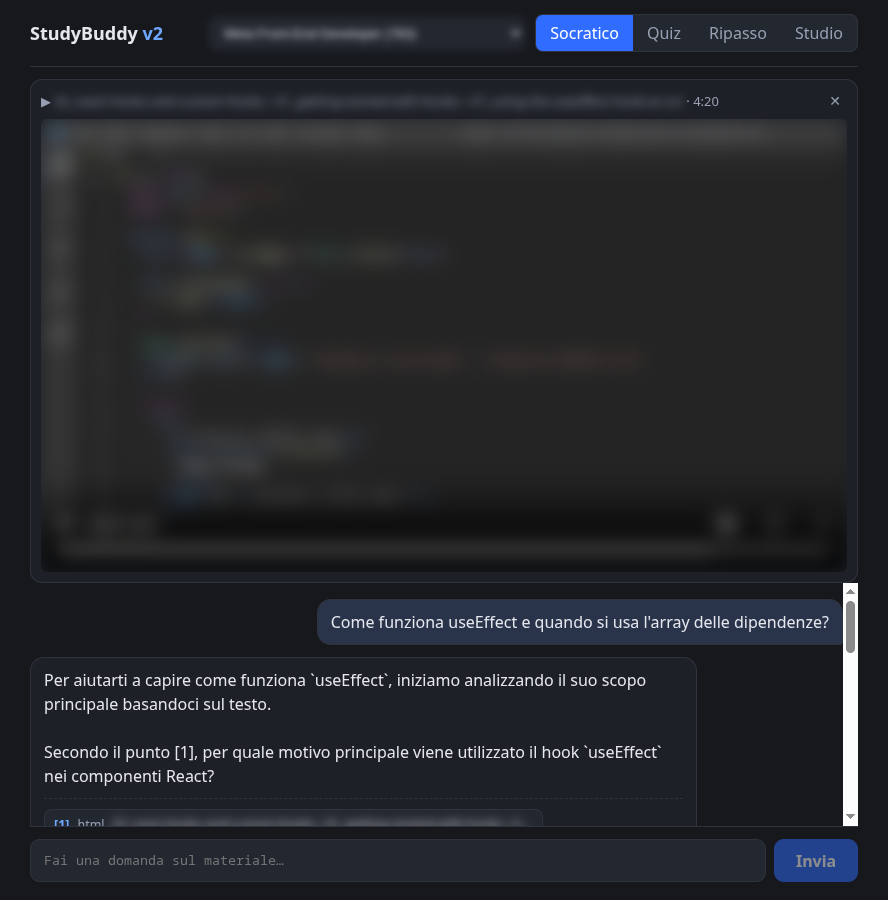
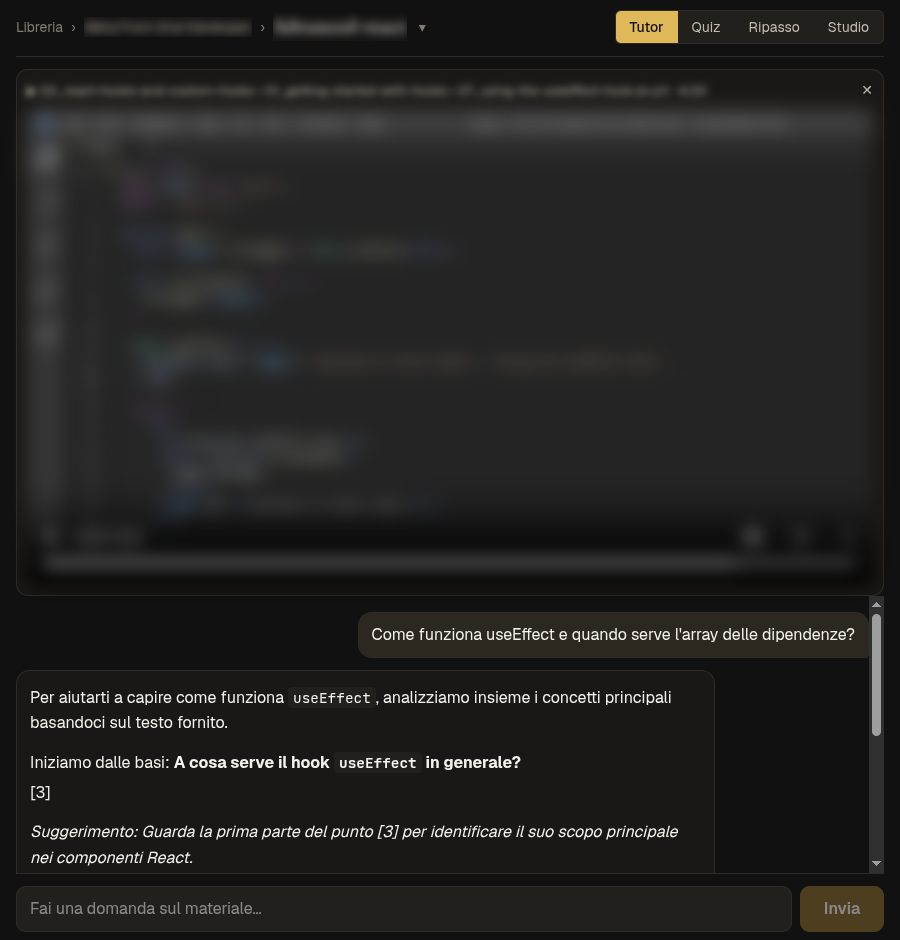
README e screenshot aggiornati: libreria, import con anteprima, nuova UI dell'area studio

diff --git a/README.md b/README.md
@@ -1,6 +1,6 @@
 # StudyBuddy v2
 
-**A local-first AI study companion.** Point it at a downloaded online course (video transcripts, PDFs, HTML readings) and it becomes a personal tutor. It answers Socratically and cites the exact minute of the lecture video. It also generates quizzes and spaced-repetition flashcards, map-reduce summaries, slides, and explorable concept maps. Everything runs on your machine through Ollama, so no data leaves it and there is no per-token bill.
+**A local-first AI study companion.** Drop downloaded online courses (video transcripts, PDFs, HTML readings) into a folder, import them from the app, and each one becomes a personal tutor. It answers Socratically and cites the exact minute of the lecture video. It also generates quizzes and spaced-repetition flashcards, map-reduce summaries, slides, and explorable concept maps. Everything runs on your machine through Ollama, so no data leaves it and there is no per-token bill.
 
 ![Socratic tutor: a citation opens the lecture video at the right minute](docs/screenshots/socratic-tutor.png)
 
@@ -8,8 +8,15 @@
 
 ## Features
 
+### Course library and guided import
+Copy downloaded courses into `Courses/` and the library notices them. **Add course** analyses the folder without touching the database. It tells a specialization (named sub-folders, one course each) from a single course (numbered module folders), counts transcripts, PDFs, HTML and videos, flags videos without subtitles, and compares file hashes with the last import to mark each course *new*, *up to date* or *changed*. You review an editable preview before anything is written: rename, flip course ↔ specialization, group loose courses into a new one, assign **areas**, and pick what to import. Import runs in the background with per-course progress.
+
+The hierarchy is two levels deep: studying a specialization covers all its courses (retrieval, review queue, maps). Areas are layout-only tags that group the library at a glance without mixing content. Re-importing never undoes manual organization.
+
+<img src="docs/screenshots/library.png" alt="Library grouped by area, with specializations and their courses" width="49%"> <img src="docs/screenshots/add-preview.png" alt="Import preview: detected courses, file counts, changed files, grouping and areas" width="49%">
+
 ### Socratic tutor with video-timestamp citations
-Ask a question, even in Italian about English material. The tutor doesn't hand you the answer. It guides you with questions and hints, and it relies **only** on passages retrieved from the course. Every answer lists numbered sources. A transcript citation opens the built-in player at the exact timestamp. Conversations are saved and resumed.
+Ask a question, even in Italian about English material, about one course or a whole specialization. The tutor doesn't hand you the answer. It guides you with questions and hints, and it relies **only** on passages retrieved from the course. Every answer lists numbered sources. A transcript citation opens the built-in player at the exact timestamp. Conversations are saved and resumed.
 
 <img src="docs/screenshots/citations.png" alt="Socratic dialogue with numbered citations and video timestamps" width="640">
 
@@ -57,7 +64,7 @@ Map-reduce summaries over a topic or a whole module. The slides come with SVG il
 - **Hybrid retrieval.** Dense search alone misses exact terms (`useEffect`, `git rebase`). Lexical search alone can't match an Italian question to English material. StudyBuddy runs both: multilingual `qwen3-embedding` on **sqlite-vec** and **BM25** on FTS5. It fuses them with **Reciprocal Rank Fusion**, which merges by rank, so incomparable cosine and BM25 scores never need normalizing.
 - **Real reranker.** `bge-reranker-v2-m3` runs in-process via Transformers.js / ONNX Runtime on CUDA (fp16, ~0.6 s for 20 passages). If CUDA isn't available it falls back to CPU (q8, ~3.4 s); if the model fails to load, it falls back to LLM listwise reranking.
 - **Provider-agnostic.** Every LLM call goes through `generate(task, opts)` / `embed(texts)`. `src/lib/config.ts` maps each task (chat, quiz, grade, summarize, embed, rerank) to a provider and model. Ollama is the default; Anthropic or any OpenAI-compatible endpoint is opt-in **per task**.
-- **Safe for a local app that touches the filesystem.** `src/proxy.ts` only accepts local `Host` headers, which blocks DNS rebinding, and only `application/json` writes, which forces a CORS preflight against CSRF. Client paths go through a home-directory sandbox, and the video endpoint only streams files that were actually ingested.
+- **Safe for a local app that touches the filesystem.** `src/proxy.ts` only accepts local `Host` headers, which blocks DNS rebinding, and only `application/json` writes, which forces a CORS preflight against CSRF. Client paths go through a home-directory sandbox that is checked on the *real* path, so a symlink pointing outside it is skipped and reported. The video endpoint only streams files that were actually ingested.
 
 ## Stack
 
@@ -80,12 +87,12 @@ ollama pull gemma4:12b
 ollama pull qwen3-embedding:0.6b
 
 npm install
-echo "DB_PATH=studybuddy.db" > .env.local   # optional, this is the default
-npm run db:push
-npm run dev                                  # http://localhost:3000
+echo "DB_PATH=studybuddy.db" > .env.local
+DB_PATH=studybuddy.db npx tsx scripts/create-db.ts   # new database with the schema
+npm run dev                                          # http://localhost:3000
 ```
 
-The reranker model downloads into `.models/` on first use.
+The reranker model downloads into `.models/` on first use. The vector and full-text tables (`sqlite-vec`, FTS5) are created by the app, so don't run `drizzle-kit push` on a database that already has data: they aren't part of the Drizzle schema.
 
 **Optional GPU reranking.** `onnxruntime-node` is built against CUDA 12. If your system has a different CUDA version, install the CUDA 12 runtime libraries into a project venv. `npm run dev` adds them to `LD_LIBRARY_PATH` through `scripts/with-cuda.sh`:
 
@@ -96,22 +103,31 @@ python -m venv .venv
 
 **Optional Whisper fallback** for videos without subtitles: `.venv/bin/pip install faster-whisper` (whisper.cpp and openai-whisper are auto-detected too).
 
-## Ingesting a course
+## Adding courses
 
-The expected layout is `course/module/lesson/` with mixed files. Subtitles are the primary source; videos are skipped, but their paths are kept so citations can link to them.
+1. Copy each downloaded course (or a whole specialization) into `Courses/` in the project root. Set `STUDYBUDDY_LIBRARY_DIR` to use another folder inside your home.
+2. Open the app: the library shows a banner with the new folders. Click **Add course**, check the preview, import.
+3. **Check for updates** on the same page re-hashes the files and re-imports only what changed.
+
+The expected layout is `course/module/lesson/` with mixed files. Subtitles are the primary source (`lesson.en.srt` covers `lesson.mp4`). Videos are skipped, but their paths are kept so citations can link to them. Videos without subtitles can be transcribed with Whisper from the preview (slow: minutes per hour of video).
+
+Re-importing is idempotent: unchanged files are skipped by hash, modified files are replaced, and names, specializations and areas you changed by hand are kept.
+
+There is also a CLI, which follows the same rules:
 
 ```bash
 npm run ingest -- "path/to/course" "Course name"
 npm run ingest -- "path/to/course" "Course name" --whisper   # also transcribe videos without subtitles
 ```
 
-Re-ingesting is idempotent: unchanged files are skipped by hash, and modified files are replaced. `POST /api/ingest-folder` ingests a folder of courses as a parent domain with one child per course.
-
 ## Project structure
 
 ```
 src/lib/
   config.ts        model-per-task routing, RAG / reranker / Whisper settings
+  library.ts       library tree, invariants (2 levels: specialization → courses), areas
+  ingestPlan.ts    read-only folder analysis: course vs specialization, file counts, change detection
+  ingestTree.ts    applies an import plan to the library, then ingests course by course
   providers/       ollama | anthropic | openai-compatible | image backends
   rag/             chunking, sqlite-vec + FTS5 store, hybrid search, rerank, course parsers
   tutor/           socratic session, quiz, grading, SM-2 cards
@@ -119,9 +135,17 @@ src/lib/
   conceptmap.ts    map generation and "enter a concept" expansion
   summarize.ts     map-reduce summaries
   slides.ts        slide decks
+src/app/                pages: / (library), /add (import), /study/[id]?mode=tutor|quiz|review|studio
 src/components/mappe/   SVG canvas and editor (framework-free DOM, hosted in React)
 src/app/api/            thin route handlers
 src/proxy.ts            host allowlist + JSON-only writes
+```
+
+## Tests
+
+```bash
+npm test          # node:test via tsx, temporary SQLite database per file, no Ollama needed
+npm run typecheck
 ```
 
 ## Limitations
@@ -130,7 +154,7 @@ src/proxy.ts            host allowlist + JSON-only writes
 - SVG illustrations from a 12B model are simple and sometimes imprecise.
 - Quiz options sometimes reuse the English wording of the source material.
 
-Screenshots show real output generated locally on a purchased front-end course. Video frames, course names and file paths are blurred. No course material is included in this repository.
+Screenshots show real output generated locally on purchased online courses. Video frames, course names and file paths are blurred. No course material is included in this repository.
 
 ## License
 
